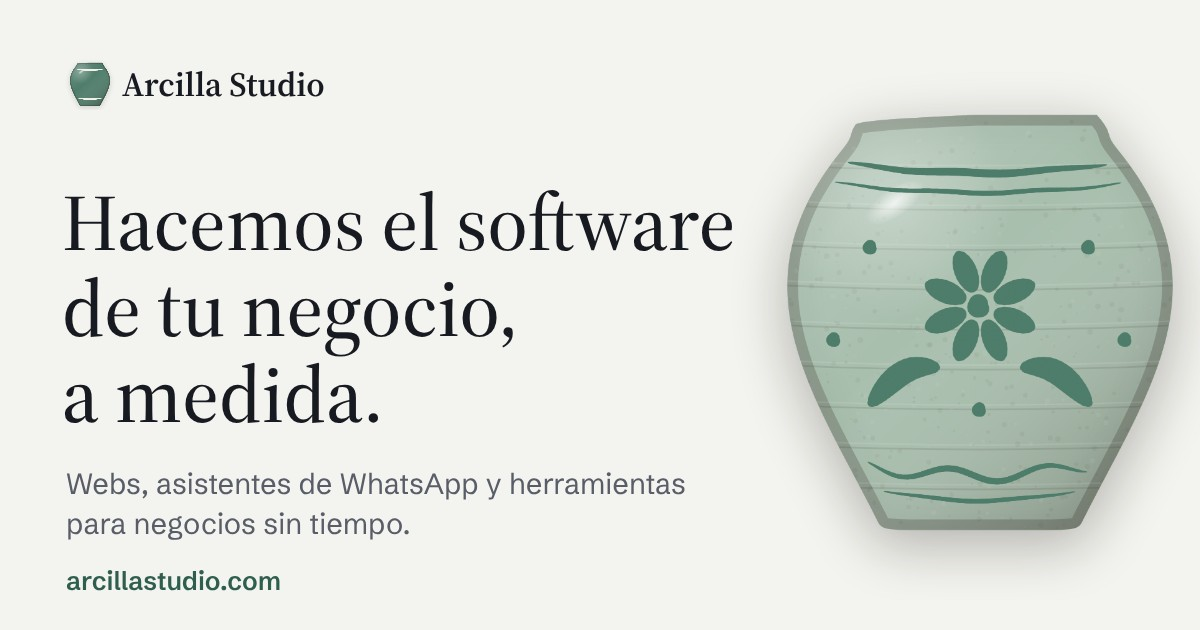
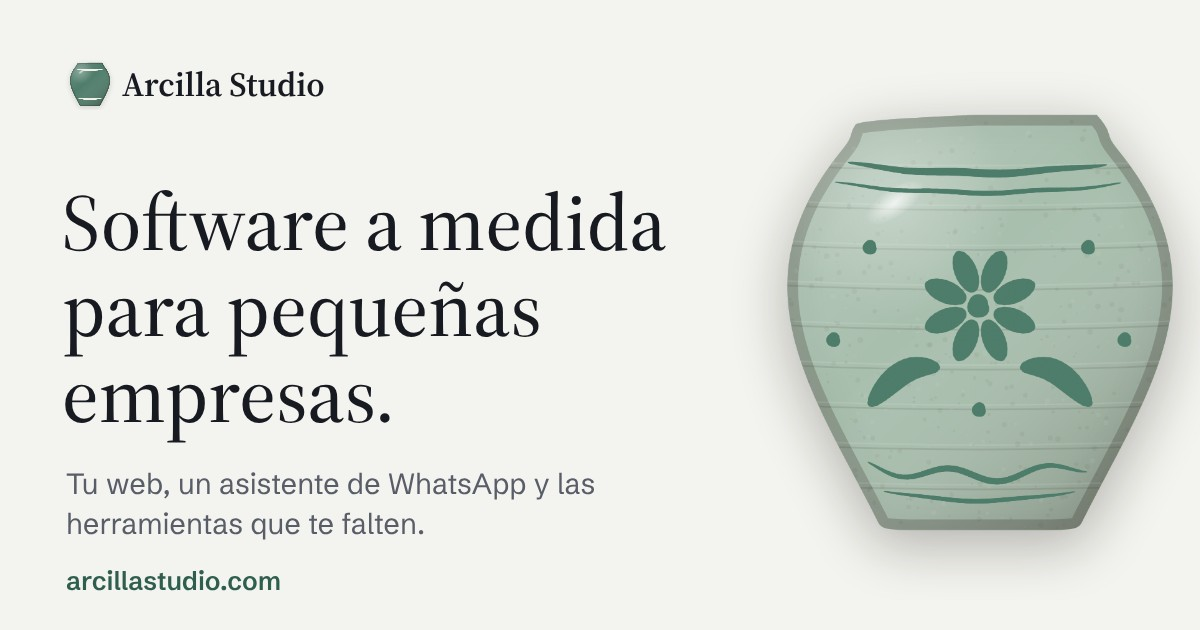
Titular: Software a medida para pequeñas empresas
Claude-Session: https://claude.ai/code/session_01FKWfLbK76Cq9nnMgWUNXM3

Changed region(s): [[0.0308, 0.3016, 0.6167, 0.7238], [0.0617, 0.754, 0.5858, 0.7841], [0.0617, 0.8143, 0.3392, 0.8746]]

diff --git a/web/public/index.html b/web/public/index.html
@@ -12,7 +12,7 @@
 <meta property="og:image" content="https://arcillastudio.com/assets/piezas/compartir.jpg">
 <meta property="og:image:width" content="1200">
 <meta property="og:image:height" content="630">
-<meta property="og:image:alt" content="Arcilla Studio. Hacemos el software de tu negocio, a medida. Una vasija de cerámica en celadón decorada a pincel.">
+<meta property="og:image:alt" content="Arcilla Studio. Software a medida para pequeñas empresas. Una vasija de cerámica en celadón decorada a pincel.">
 <meta property="og:locale" content="es_ES">
 <meta name="twitter:card" content="summary_large_image">
 <link rel="canonical" href="https://arcillastudio.com/">
@@ -47,7 +47,7 @@
 <main id="contenido">
   <section class="portada" aria-labelledby="titular">
     <div class="wrap">
-      <h1 id="titular"><span>Hacemos el software</span> <span>de tu&nbsp;negocio,</span> <span>a medida.</span></h1>
+      <h1 id="titular"><span>Software a medida</span> <span>para pequeñas empresas.</span></h1>
       <p class="sub">Hacemos tu web, un asistente de WhatsApp que contesta por ti y las herramientas que te falten, para que cierres más clientes y pierdas menos tiempo.</p>
     </div>
   </section>

diff --git a/web/public/assets/styles.css b/web/public/assets/styles.css
@@ -93,8 +93,8 @@ body::before { content: ""; position: fixed; inset: 0 0 auto; height: env(safe-a
 
 /* Portada: alineada a la izquierda, el titular manda. */
 .portada .wrap { display: flex; flex-direction: column; align-items: flex-start; gap: clamp(20px, 2.4vw, 30px); padding-block: clamp(52px, 8.5vw, 124px) clamp(24px, 3vw, 40px); }
-.portada h1 { font-size: clamp(2.8rem, 1rem + 5.4vw, 6.4rem); font-weight: 500; line-height: .96; letter-spacing: -0.03em; max-width: 19ch; }
-/* Cortes de línea a mano en pantallas anchas: "Hacemos el software / de tu negocio, / a medida." */
+.portada h1 { font-size: clamp(2.8rem, 1rem + 5.4vw, 6.4rem); font-weight: 500; line-height: .96; letter-spacing: -0.03em; max-width: 24ch; }
+/* Cortes de línea a mano en pantallas anchas: "Software a medida / para pequeñas empresas." */
 @media (min-width: 700px) { .portada h1 span { display: block; } }
 .portada .sub { font-size: clamp(1.15rem, 1rem + .55vw, 1.45rem); color: var(--tinta-2); max-width: 40ch; line-height: 1.42; }
 

diff --git a/tools/piezas.html b/tools/piezas.html
@@ -181,10 +181,10 @@ function compartir() {
   ctx.fillStyle = COL.tinta;
   ctx.font = `600 34px '${SERIF}'`; ctx.fillText("Arcilla Studio", 122, 96);
   ctx.font = `500 80px '${SERIF}'`;
-  ["Hacemos el software", "de tu negocio,", "a medida."].forEach((t, i) => ctx.fillText(t, 62, 250 + i * 86));
+  ["Software a medida", "para pequeñas", "empresas."].forEach((t, i) => ctx.fillText(t, 62, 250 + i * 86));
   ctx.fillStyle = "#585d68"; ctx.font = "400 29px 'Schibsted Grotesk'";
-  ctx.fillText("Webs, asistentes de WhatsApp y herramientas", 66, 494);
-  ctx.fillText("para negocios sin tiempo.", 66, 534);
+  ctx.fillText("Tu web, un asistente de WhatsApp y las", 66, 494);
+  ctx.fillText("herramientas que te falten.", 66, 534);
   ctx.fillStyle = COL.acento; ctx.font = "600 26px 'Schibsted Grotesk'"; ctx.fillText("arcillastudio.com", 66, 590);
   return cv;
 }
